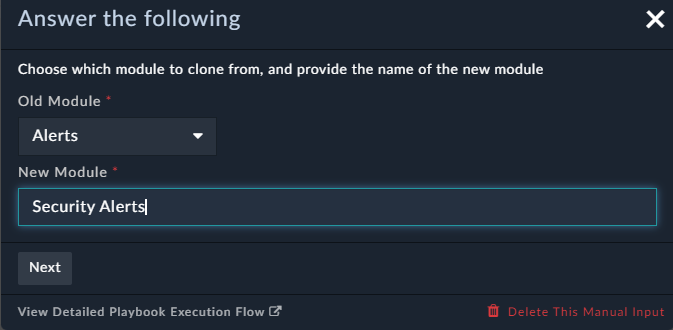
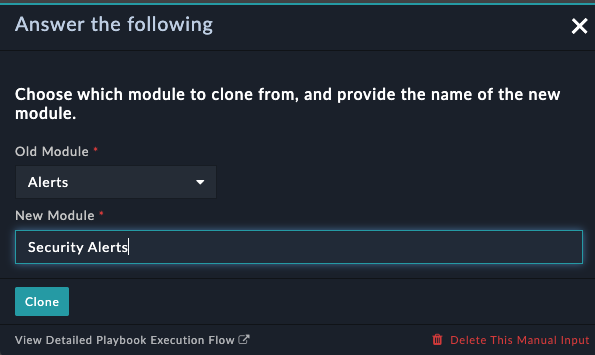
Modification

diff --git a/docs/usage.md b/docs/usage.md
@@ -6,7 +6,8 @@ First, refer to the installation and [setup guide](setup.md) to get started. Use
 
 ## Utility Playbook &mdash; Clone FortiSOAR Module
 This playbook gives you the ability to clone a FortiSOAR module. Currently there is no UI function to clone a module so this playbook was created to solve that need.
-To use this playbook
+
+## New Module Creation:
 
 1. Navigate to **Playbooks** -> **08 - SOC Utilities** collection
 ![Collection](./res/Collection.png)
@@ -24,7 +25,10 @@ To use this playbook
 
 ![Module Questions](./res/module_input_questions.png)
 
-6. Click the **Next** button
+6. Click the **Clone** button
+> **Note:** If Module with same name already exists. A popup with error message appears.
+![Error Message](./res/error_message.png)
+
 7. This may take 10-15 seconds to run. After you will see a popup with two options.
 
 ![Playbook complete](./res/playbook_complete_dialog.png)
@@ -32,45 +36,44 @@ To use this playbook
  - Option 1: If you are ready to publish the changed click the **Publish** button
  - Option 2: click the **Manual Review** button. you will need to manually publish by navigating the Modules section in the System Settings
 
-1. The publish will take 1-2 minutes.
+8. The publish will take 1-2 minutes.
 
 ![Publish Message](./res/publish_message.png)
 
-9.  Navigate to System Settings by clicking the Gear icon at the top right
+## Module Permission
 
+1.  Navigate to System Settings by clicking the Gear icon at the top right
 ![Publish Message](./res/system_settings.png)
 
-10.   Click the **Roles** section from the left navigation pane.
-
+2.   Click the **Roles** section from the left navigation pane.
 ![Roles](./res/roles.png)
 
-11.   Click the **Full App Permissions** Role, or whichever role you want to assign the permissions for the new module
-12.   Scroll until you find the new module name (Security Alerts in this example), and check all of the permission boxes as necessary.
+3.   Click the **Full App Permissions** Role, or whichever role you want to assign the permissions for the new module
 
+4.   Scroll until you find the new module name (Security Alerts in this example), and check all of the permission boxes as necessary.
 ![Module Permissions Message](./res/module_permissions.png)
-13.   Click **Save** at the bottom left
 
-> **Note**
-> Repeat steps 12 and 13 for adding permissions on other roles if needed
+5.   Click **Save** at the bottom left
 
-> **Caution**
-> If you need playbooks to create records in this module, make sure the playbook appliance has the CRUD permissions neccesary to access the module
-14.   Navigate to the Navigation section of the settings
+> **Note:** Repeat steps 4 and 5 for adding permissions on other roles if needed
 
+> **Caution:** If you need playbooks to create records in this module, make sure the playbook appliance has the CRUD permissions necessary to access the module
+
+6.   Navigate to the Navigation section of the settings
 ![Navigiation](./res/navigation.png)
 
-15.  Find the new module in the Modules box and check the box.
-
+7.  Find the new module in the Modules box and check the box.
 ![Alt text](./res/modules_box.png)
 
-16. Click **Add to Menu**
-17. Scroll to the very bottom of the page. You can then optionally change the icon of the module using the pencil icon to the right of the row.
+8. Click **Add to Menu**
 
+9. Scroll to the very bottom of the page. You can then optionally change the icon of the module using the pencil icon to the right of the row.
 ![Module Row](./res/module_row.png)
 
-18.  (Optional) Drag the row to where you want to the module displayed
-19.  Click **Save** at the bottom left.
-20.  Refresh the page using F5 on the keyboard, or the refresh button on the browser.
+10.  (Optional) Drag the row to where you want to the module displayed.
+
+11.  Click **Save** at the bottom left.
+12.  Refresh the page using F5 on the keyboard, or the refresh button on the browser.
 
 The new module is now visible in the navigation pane.
 
